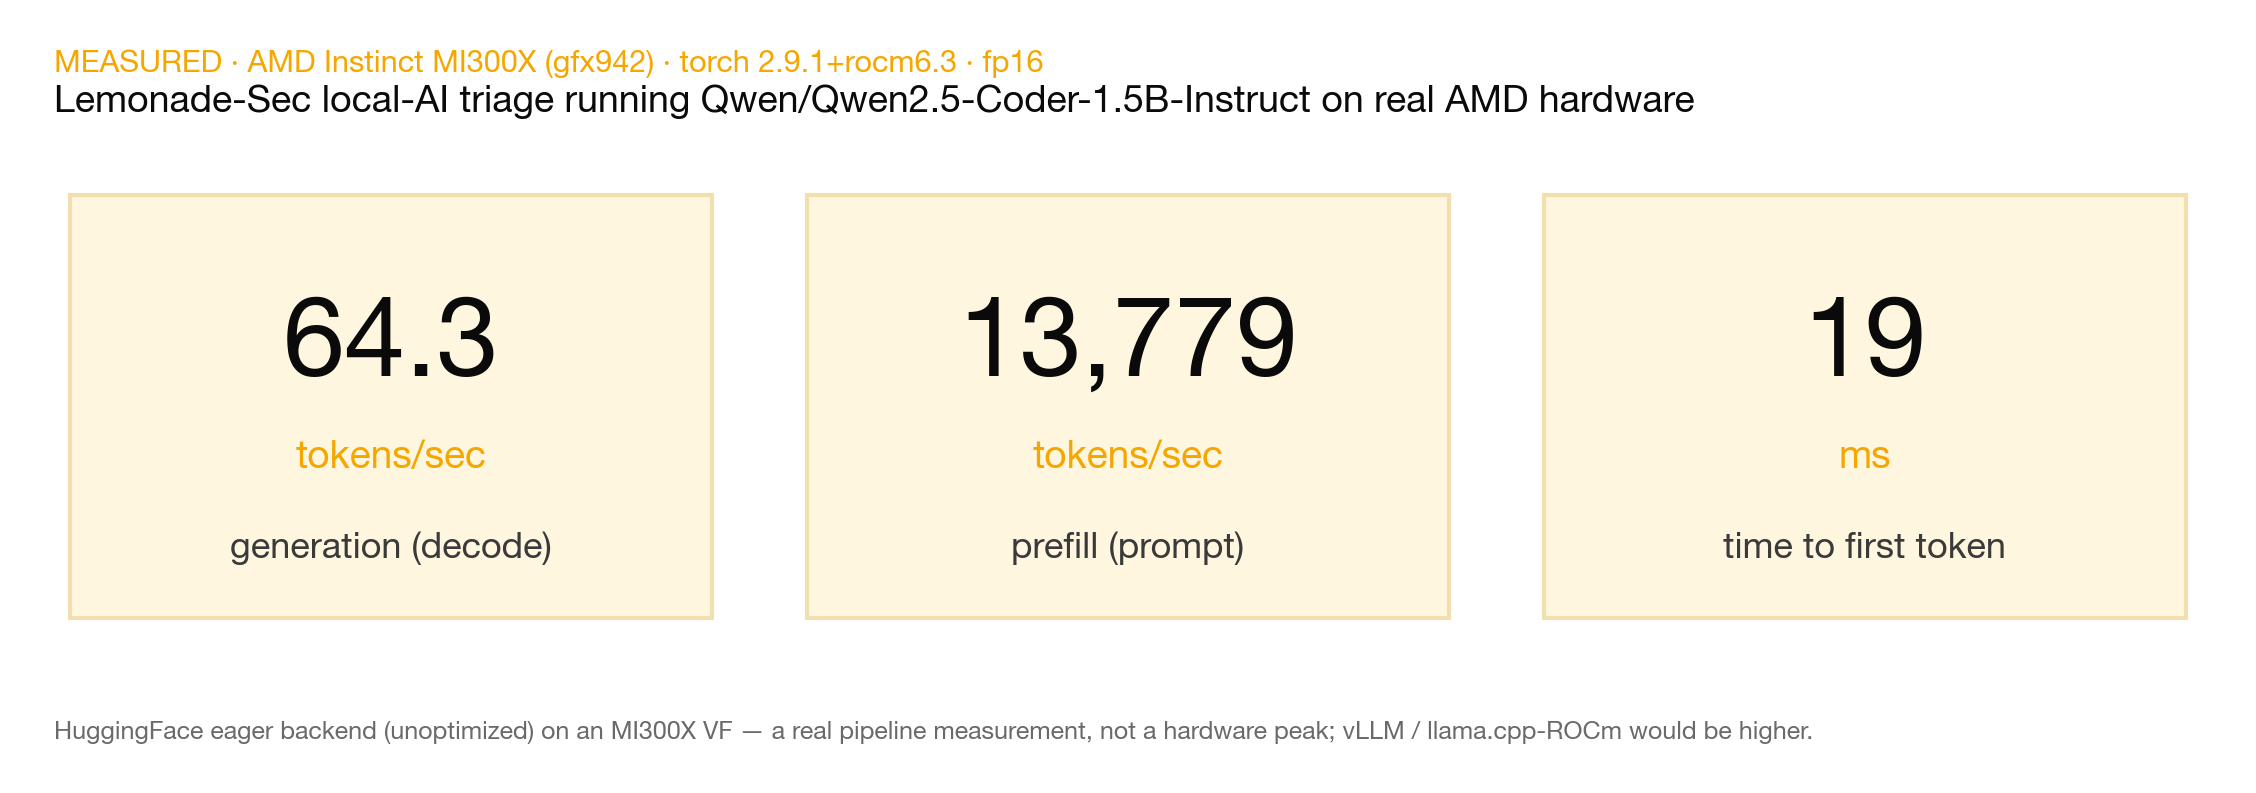
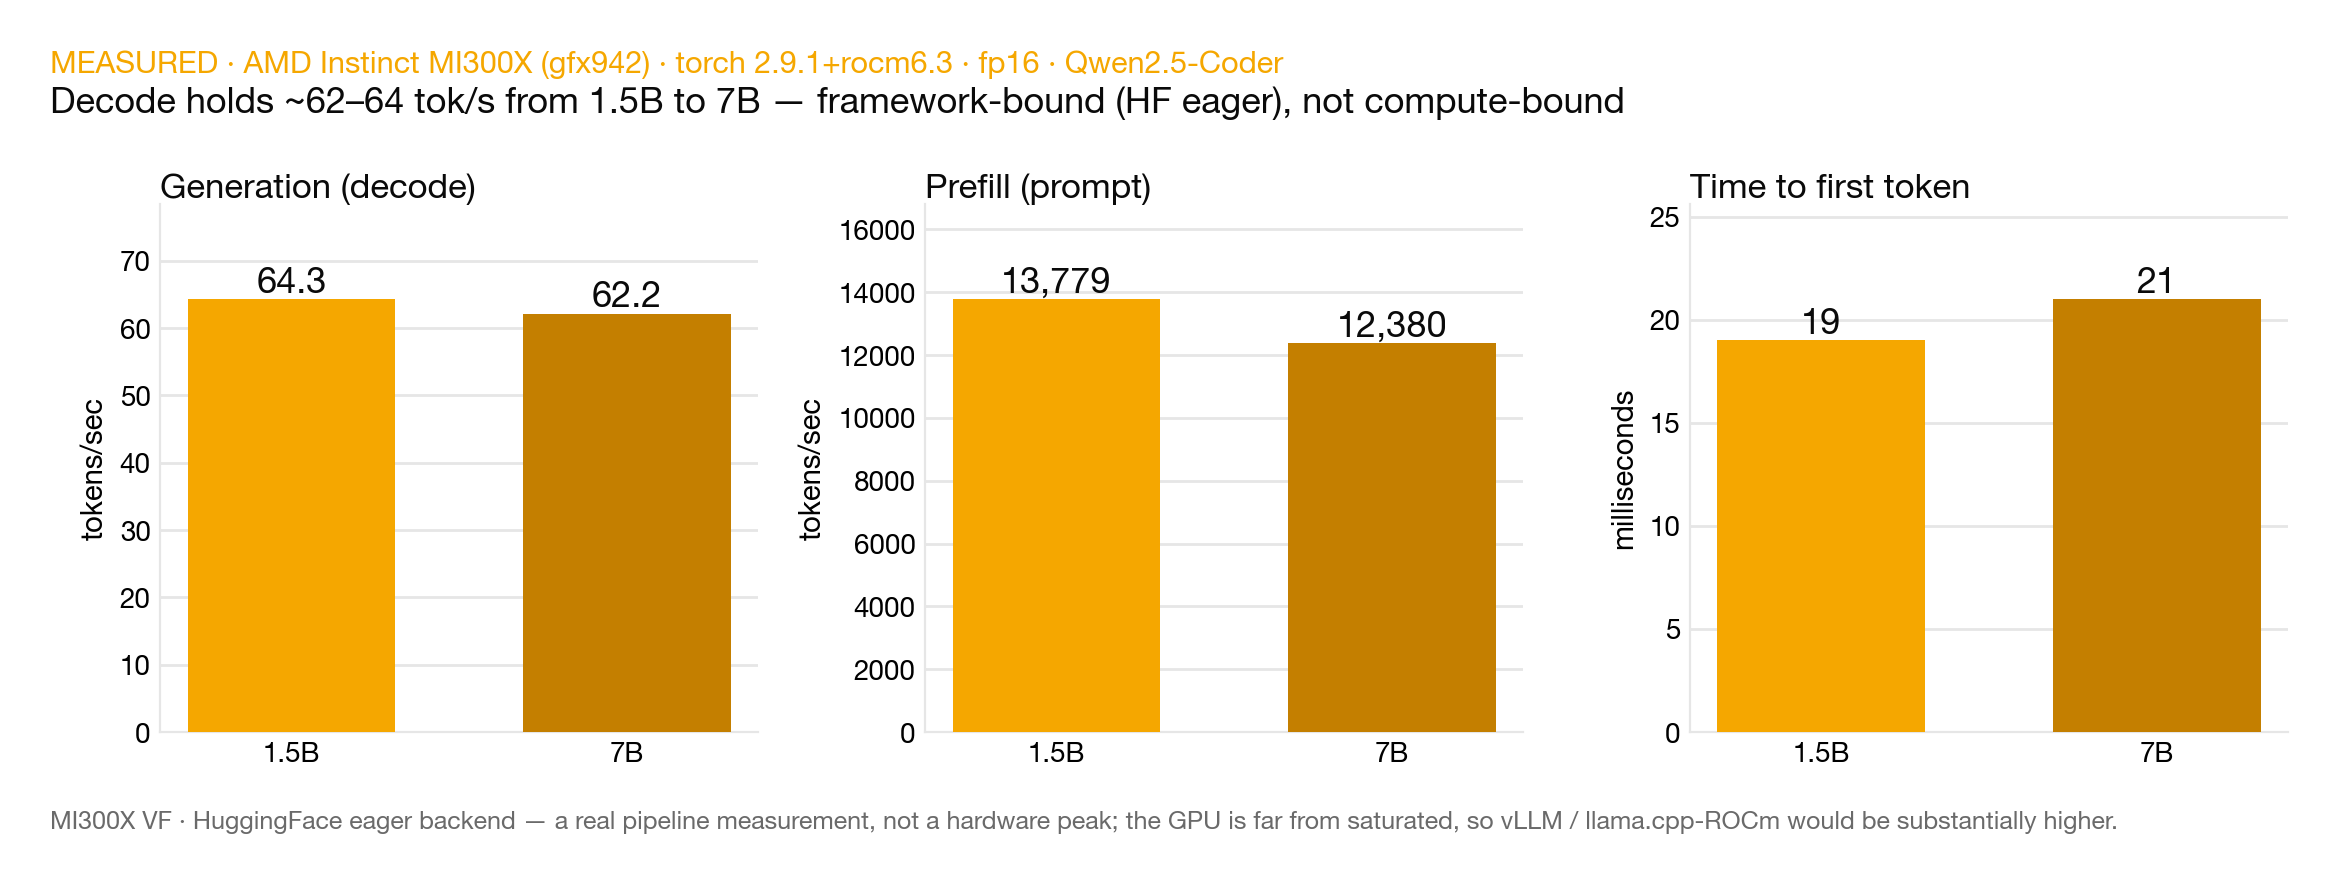
Add 7B MI300X benchmark: 62.2 tok/s — decode holds 1.5B->7B (framework-bound)
Second measured run on MI300X with Qwen2.5-Coder-7B: 62.2 tok/s decode, 12,380 prefill,
21ms TTFT — nearly identical to 1.5B, showing the HF eager path is framework-bound not
compute-bound (GPU far from saturated). Adds 7B results JSON, a 1.5B-vs-7B comparison
chart, and updates README + deck. Honest caveats retained.

diff --git a/deck/Lemonade-Sec_deck.html b/deck/Lemonade-Sec_deck.html
@@ -196,8 +196,9 @@
         <h3>Traction today <span class="pill green">REAL</span></h3>
         <ul>
           <li>Working tool: scans + local-AI triage, <b>14 findings</b> on the demo, MIT on GitHub.</li>
-          <li>✅ <b>Measured on AMD Instinct MI300X</b> (torch-ROCm, fp16): <b>64 tok/s</b> decode ·
-            13.8k prefill · <b>19 ms</b> TTFT — the triage pipeline runs on real AMD silicon.</li>
+          <li>✅ <b>Measured on AMD Instinct MI300X</b> (torch-ROCm, fp16): <b>62–64 tok/s</b> decode
+            (1.5B &amp; 7B) · <b>19–21 ms</b> TTFT — triage runs on real AMD silicon, GPU far from
+            saturated (room to grow with vLLM).</li>
           <li>Submitted to the <b>AMD Lemonade Developer Challenge</b>; author is an
             <b>AMD ACT&nbsp;I winner · Developer Featured</b> — warm ecosystem channel.</li>
         </ul>

diff --git a/benchmark/chart_measured.py b/benchmark/chart_measured.py
@@ -1,43 +1,53 @@
 #!/usr/bin/env python3
-"""Render the MEASURED MI300X benchmark as a branded KPI chart → ../assets/chart_mi300x.png.
-Reads benchmark/results/mi300x_qwen2.5-coder-1.5b.json (measured, dated)."""
+"""Render the MEASURED MI300X benchmark (1.5B vs 7B) as a branded comparison chart
+→ ../assets/chart_mi300x.png. Reads the results/*.json (measured, dated)."""
 import json, os
 import matplotlib
 matplotlib.use("Agg")
 import matplotlib.pyplot as plt
 from matplotlib import font_manager
 
-AMBER, INK, GREEN, G1, G2, LINE = "#F5A700", "#0A0A0A", "#1a9e5a", "#3a3a3a", "#6a6a6a", "#e6e6e6"
+AMBER, INK, DK, G1, G2, LINE = "#F5A700", "#0A0A0A", "#c47f00", "#3a3a3a", "#6a6a6a", "#e6e6e6"
 for fam in ("Helvetica Neue", "Helvetica", "Arial"):
     if any(fam.lower() in f.name.lower() for f in font_manager.fontManager.ttflist):
         plt.rcParams["font.family"] = fam; break
 
 HERE = os.path.dirname(__file__)
-data = json.load(open(os.path.join(HERE, "results", "mi300x_qwen2.5-coder-1.5b.json")))
-t = data["throughput"]
-tiles = [
-    (f"{t['token_generation_tok_per_sec']:.1f}", "tokens/sec", "generation (decode)"),
-    (f"{t['prefill_tok_per_sec']:,.0f}", "tokens/sec", "prefill (prompt)"),
-    (f"{t['time_to_first_token_sec']*1000:.0f}", "ms", "time to first token"),
+def load(n): return json.load(open(os.path.join(HERE, "results", n)))
+m15, m7 = load("mi300x_qwen2.5-coder-1.5b.json"), load("mi300x_qwen2.5-coder-7b.json")
+labels = ["1.5B", "7B"]
+cols = [AMBER, DK]
+
+panels = [
+    ("Generation (decode)", "tokens/sec",
+     [m15["throughput"]["token_generation_tok_per_sec"], m7["throughput"]["token_generation_tok_per_sec"]], "{:.1f}"),
+    ("Prefill (prompt)", "tokens/sec",
+     [m15["throughput"]["prefill_tok_per_sec"], m7["throughput"]["prefill_tok_per_sec"]], "{:,.0f}"),
+    ("Time to first token", "milliseconds",
+     [m15["throughput"]["time_to_first_token_sec"]*1000, m7["throughput"]["time_to_first_token_sec"]*1000], "{:.0f}"),
 ]
 
-fig, axes = plt.subplots(1, 3, figsize=(11, 3.6))
-for ax, (num, unit, label) in zip(axes, tiles):
-    ax.axis("off")
-    ax.add_patch(plt.Rectangle((0.03, 0.08), 0.94, 0.84, transform=ax.transAxes,
-                 facecolor="#fff6e0", edgecolor="#f2dfae", lw=1.5, zorder=0))
-    ax.text(0.5, 0.62, num, ha="center", va="center", fontsize=40, fontweight="bold", color=INK)
-    ax.text(0.5, 0.40, unit, ha="center", va="center", fontsize=14, color=AMBER, fontweight="bold")
-    ax.text(0.5, 0.22, label, ha="center", va="center", fontsize=13, color=G1, fontweight="bold")
+fig, axes = plt.subplots(1, 3, figsize=(11.5, 4))
+for ax, (title, unit, vals, fmt) in zip(axes, panels):
+    bars = ax.bar(labels, vals, color=cols, width=0.62, zorder=3)
+    for b, v in zip(bars, vals):
+        ax.text(b.get_x()+b.get_width()/2, v, fmt.format(v), ha="center", va="bottom",
+                fontsize=13, fontweight="bold", color=INK)
+    ax.set_title(title, fontsize=12.5, fontweight="bold", color=INK, loc="left", pad=2)
+    ax.set_ylabel(unit, fontsize=10.5)
+    ax.set_ylim(0, max(vals)*1.22 or 1)
+    for s in ("top", "right"): ax.spines[s].set_visible(False)
+    ax.spines["left"].set_color(LINE); ax.spines["bottom"].set_color(LINE)
+    ax.tick_params(length=0); ax.set_axisbelow(True); ax.yaxis.grid(True, color=LINE, lw=1)
 
-fig.text(0.012, 0.955, "MEASURED · AMD Instinct MI300X (gfx942) · torch 2.9.1+rocm6.3 · fp16",
+fig.text(0.012, 0.965, "MEASURED · AMD Instinct MI300X (gfx942) · torch 2.9.1+rocm6.3 · fp16 · Qwen2.5-Coder",
          fontsize=11, fontweight="bold", color=AMBER)
-fig.text(0.012, 0.90, f"Lemonade-Sec local-AI triage running {data['model']} on real AMD hardware",
-         fontsize=13.5, fontweight="bold", color=INK)
-fig.text(0.012, 0.03, "HuggingFace eager backend (unoptimized) on an MI300X VF — a real pipeline "
-         "measurement, not a hardware peak; vLLM / llama.cpp-ROCm would be higher.",
+fig.text(0.012, 0.915, "Decode holds ~62–64 tok/s from 1.5B to 7B — framework-bound (HF eager), not compute-bound",
+         fontsize=13, fontweight="bold", color=INK)
+fig.text(0.012, 0.02, "MI300X VF · HuggingFace eager backend — a real pipeline measurement, not a hardware peak; "
+         "the GPU is far from saturated, so vLLM / llama.cpp-ROCm would be substantially higher.",
          fontsize=9, color=G2)
-fig.subplots_adjust(left=0.01, right=0.99, top=0.84, bottom=0.14, wspace=0.08)
+fig.subplots_adjust(left=0.06, right=0.985, top=0.80, bottom=0.14, wspace=0.28)
 out = os.path.join(HERE, "..", "assets", "chart_mi300x.png")
 fig.savefig(out, dpi=200, bbox_inches="tight", pad_inches=0.25, facecolor="white")
 print("wrote", os.path.abspath(out))

diff --git a/README.md b/README.md
@@ -41,21 +41,26 @@ from `rules.py` (measured); economics are labelled MODELED (public list-price es
 ## Measured on real AMD hardware 🔴
 
 The local-AI triage pipeline was benchmarked on an **AMD Instinct MI300X** (gfx942, ROCm,
-`torch 2.9.1+rocm6.3`, fp16) running `Qwen2.5-Coder-1.5B-Instruct` — proving Lemonade-Sec's
+`torch 2.9.1+rocm6.3`, fp16) with `Qwen2.5-Coder` **1.5B and 7B** — proving Lemonade-Sec's
 private, on-device triage runs end-to-end on AMD accelerators.
 
-<p align="center"><img src="assets/chart_mi300x.png" width="88%" alt="Measured on AMD MI300X"/></p>
+<p align="center"><img src="assets/chart_mi300x.png" width="92%" alt="Measured on AMD MI300X — 1.5B vs 7B"/></p>
 
-| Metric | Measured |
-|---|---|
-| Token generation (decode) | **64.3 tok/s** |
-| Prefill (prompt) | **13,779 tok/s** |
-| Time to first token | **19 ms** |
+| Metric | Qwen2.5-Coder-1.5B | Qwen2.5-Coder-7B |
+|---|---|---|
+| Token generation (decode) | **64.3 tok/s** | **62.2 tok/s** |
+| Prefill (prompt) | 13,779 tok/s | 12,380 tok/s |
+| Time to first token | 19 ms | 21 ms |
 
-<sub>Honest caveats: HuggingFace eager backend (unoptimized) on an MI300X **VF** (virtualized
-fraction) — a real pipeline measurement, **not** a hardware peak; vLLM / llama.cpp-ROCm would be
-higher. The 1.5B model proves the pipeline runs on AMD; production security triage should use a
-7B+ model. Raw run: [`benchmark/results/mi300x_qwen2.5-coder-1.5b.json`](benchmark/results/mi300x_qwen2.5-coder-1.5b.json) · reproduce with `benchmark/amd_native_bench.sh`.</sub>
+Decode barely changes from 1.5B → 7B (64 → 62 tok/s): the plain HuggingFace **eager** path is
+**framework-bound, not compute-bound** — the MI300X is far from saturated, so a real serving
+backend (vLLM / llama.cpp-ROCm) would be substantially higher for both sizes.
+
+<sub>Honest caveats: unoptimized backend on an MI300X **VF** (virtualized fraction) — real
+pipeline measurements, **not** hardware peaks. Larger models give better triage; the tool's
+structured JSON system prompt (`triage.py`) further constrains the verdict. Raw runs:
+[`benchmark/results/`](benchmark/results/) · reproduce with `benchmark/amd_native_bench.sh`
+(`MODEL=Qwen/Qwen2.5-Coder-7B-Instruct` to switch size).</sub>
 
 ## How it works
 